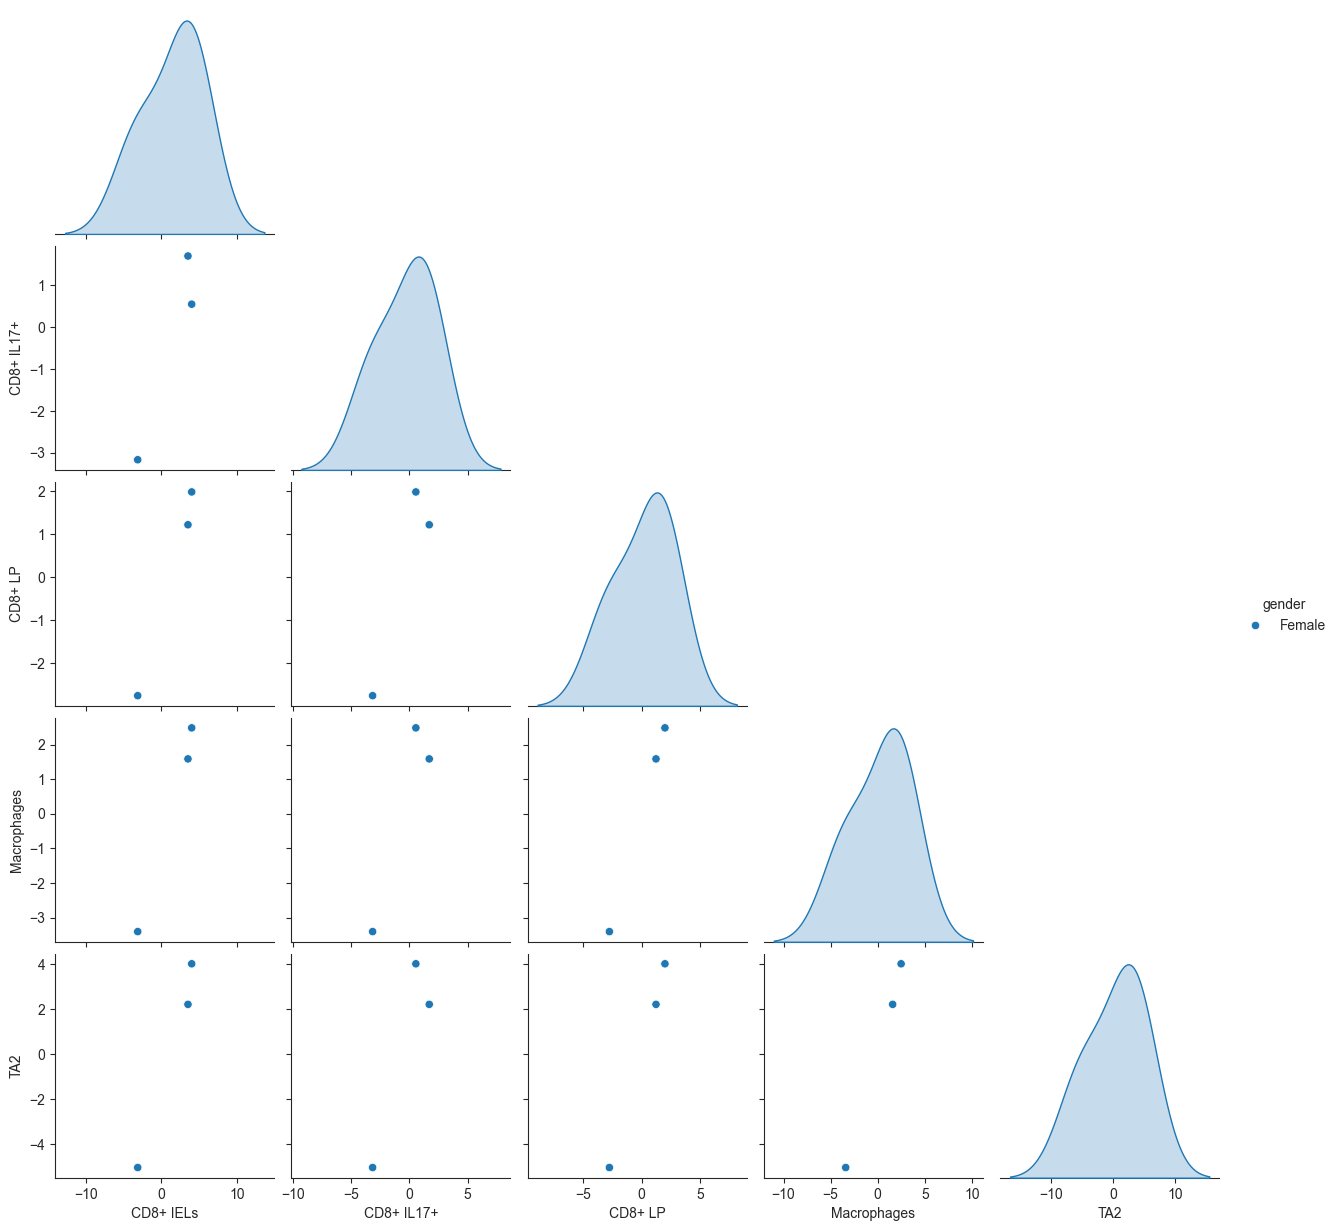
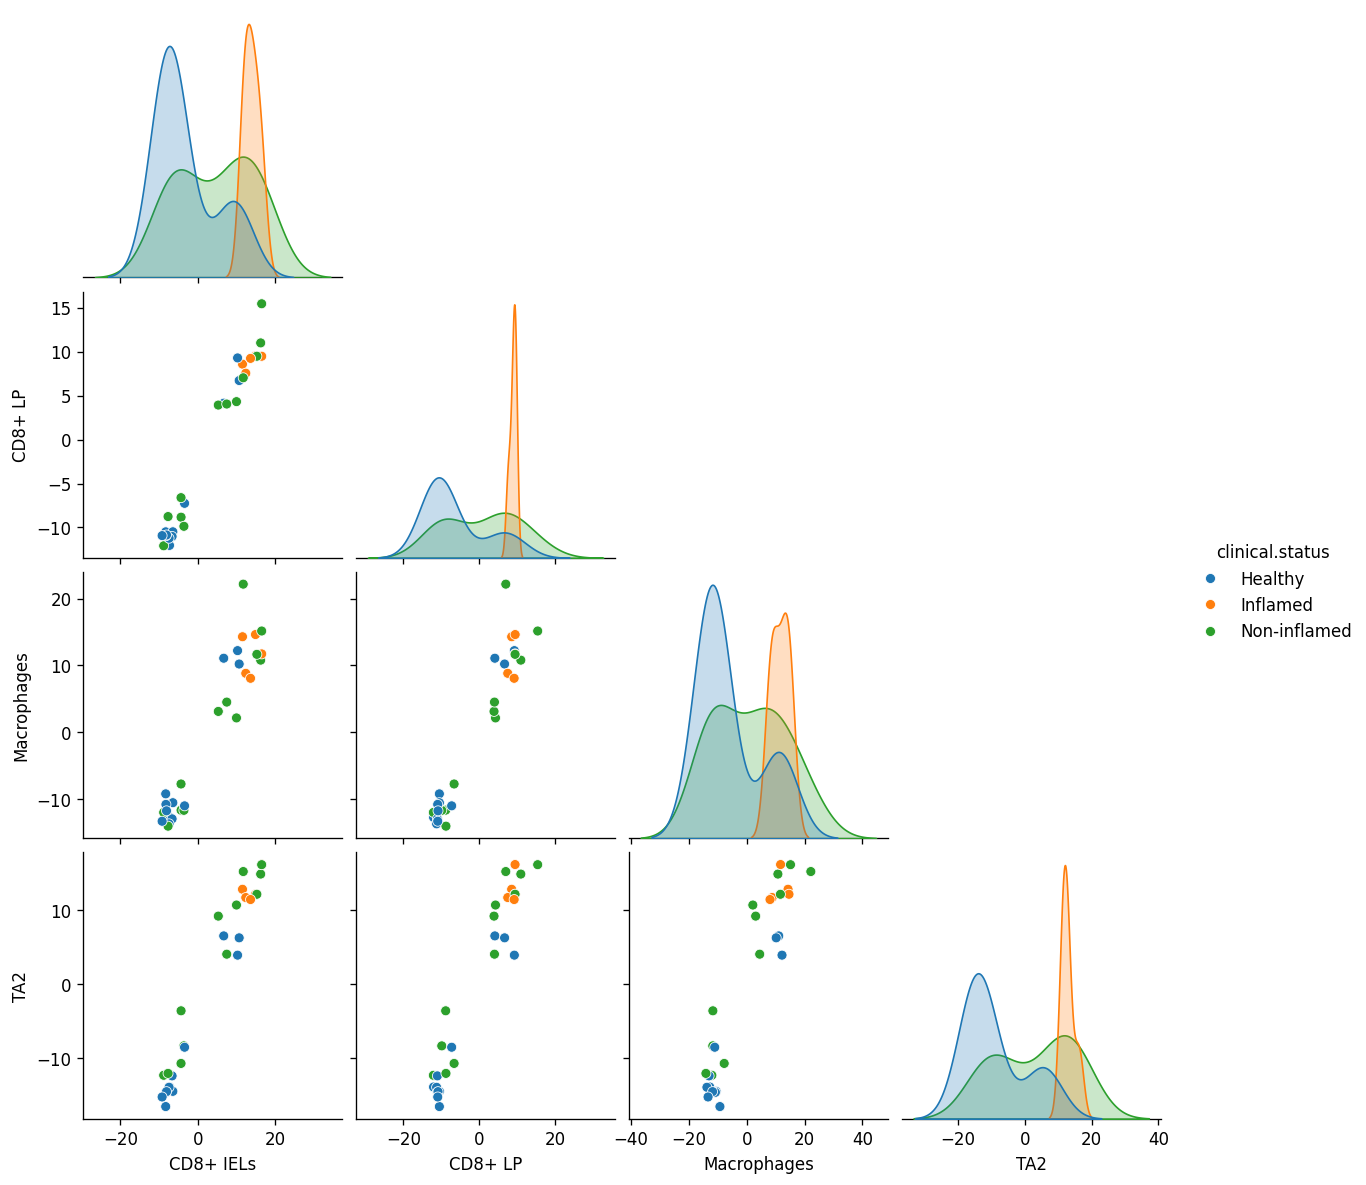
DIALOGUE: port plot_split_violins / plot_pairplot, regenerate previews
- Add `Dialogue.plot_split_violins` and `Dialogue.plot_pairplot` matching pertpy's plot-method convention (`@_doc_params(common_plot_args=...)`, `# pragma: no cover # noqa: D417`, `return_fig`, `Preview:` docstring link).
- Re-render `docs/_static/docstring_previews/dialogue_violin.png` and `dialogue_pairplot.png` from the new code path on `dialogue_example`.
- Bump the tutorial submodule to scverse/pertpy-tutorials@0e21480, which now calls the new plot methods directly instead of inlining seaborn.

diff --git a/pertpy/tools/_dialogue.py b/pertpy/tools/_dialogue.py
@@ -18,9 +18,11 @@ from dataclasses import dataclass
 from functools import singledispatch
 from typing import TYPE_CHECKING
 
+import matplotlib.pyplot as plt
 import numpy as np
 import pandas as pd
 import scanpy as sc
+import seaborn as sns
 import statsmodels.formula.api as smf
 from scipy import sparse as sp
 from scipy import stats
@@ -28,10 +30,13 @@ from scipy.optimize import nnls
 from sparsecca import multicca_permute, multicca_pmd
 from statsmodels.stats.multitest import multipletests
 
+from pertpy._doc import _doc_params, doc_common_plot_args
+
 if TYPE_CHECKING:
     from collections.abc import Sequence
 
     from anndata import AnnData
+    from matplotlib.figure import Figure
 
 _LOG2_PI = float(np.log(2.0 * np.pi))
 
@@ -1302,6 +1307,108 @@ class Dialogue:
             result = sc.get.rank_genes_groups_df(sub, group="high")
             out[ct] = result
         return out
+
+    @_doc_params(common_plot_args=doc_common_plot_args)
+    def plot_split_violins(  # pragma: no cover # noqa: D417
+        self,
+        adata: AnnData,
+        *,
+        condition_key: str,
+        program: str = "MCP1",
+        conditions: tuple[str, str] | None = None,
+        return_fig: bool = False,
+    ) -> Figure | None:
+        """Per-celltype split violin of program scores stratified by a binary phenotype.
+
+        Args:
+            adata: AnnData processed by :meth:`run` / :meth:`refine_scores`.
+            condition_key: ``adata.obs`` column with the binary phenotype to split on.
+            program: Program label (``"MCP1"``, ``"MCP2"`` ...).
+            conditions: Pick which two values of ``adata.obs[condition_key]`` to plot.
+                Required when the column has more than two levels.
+            {common_plot_args}
+
+        Returns:
+            If ``return_fig`` is ``True``, returns the figure, otherwise ``None``.
+
+        Examples:
+            >>> import pertpy as pt
+            >>> adata = pt.dt.dialogue_example()
+            >>> dl = pt.tl.Dialogue(celltype_key="cell.subtypes", sample_key="sample", n_programs=3)
+            >>> dl.run(adata)
+            >>> dl.plot_split_violins(adata, condition_key="path_str", program="MCP1")
+
+        Preview:
+            .. image:: /_static/docstring_previews/dialogue_violin.png
+        """
+        score_col = f"mcp_{int(program.replace('MCP', '')) - 1}"
+        if score_col not in adata.obs.columns:
+            raise RuntimeError(f"{score_col!r} not in adata.obs; run refine_scores(adata) first.")
+        df = adata.obs[[self.celltype_key, score_col, condition_key]].copy()
+        if conditions is not None:
+            df = df[df[condition_key].isin(conditions)]
+        else:
+            unique = pd.Series(df[condition_key]).dropna().unique()
+            if len(unique) != 2:
+                raise ValueError(f"adata.obs[{condition_key!r}] has {len(unique)} levels; pass `conditions=(a, b)`.")
+        df[condition_key] = pd.Categorical(df[condition_key]).remove_unused_categories()
+        fig, ax = plt.subplots(figsize=(8, 4))
+        sns.violinplot(data=df, x=self.celltype_key, y=score_col, hue=condition_key, split=True, ax=ax)
+        ax.set_ylabel(program)
+        ax.tick_params(axis="x", rotation=90)
+        plt.tight_layout()
+        if return_fig:
+            return fig
+        plt.show()
+        plt.close(fig)
+        return None
+
+    @_doc_params(common_plot_args=doc_common_plot_args)
+    def plot_pairplot(  # pragma: no cover # noqa: D417
+        self,
+        adata: AnnData,
+        *,
+        color: str,
+        program: str = "MCP1",
+        return_fig: bool = False,
+    ) -> Figure | None:
+        """Cross-celltype pairplot of sample-level program scores, colored by a phenotype.
+
+        Aggregates each (sample, cell type) to the mean program score, pivots into a sample × cell-type matrix, and runs :func:`seaborn.pairplot` with the sample-level ``color`` annotation as the hue.
+
+        Args:
+            adata: AnnData processed by :meth:`run` / :meth:`refine_scores`.
+            color: ``adata.obs`` column for the per-sample annotation used as the pairplot hue.
+            program: Program label.
+            {common_plot_args}
+
+        Returns:
+            If ``return_fig`` is ``True``, returns the figure, otherwise ``None``.
+
+        Examples:
+            >>> import pertpy as pt
+            >>> adata = pt.dt.dialogue_example()
+            >>> dl = pt.tl.Dialogue(celltype_key="cell.subtypes", sample_key="sample", n_programs=3)
+            >>> dl.run(adata)
+            >>> dl.plot_pairplot(adata, color="clinical.status", program="MCP1")
+
+        Preview:
+            .. image:: /_static/docstring_previews/dialogue_pairplot.png
+        """
+        score_col = f"mcp_{int(program.replace('MCP', '')) - 1}"
+        if score_col not in adata.obs.columns:
+            raise RuntimeError(f"{score_col!r} not in adata.obs; run refine_scores(adata) first.")
+        sample_means = (
+            adata.obs.groupby([self.sample_key, self.celltype_key], observed=True)[score_col].mean().unstack()
+        )
+        sample_color = adata.obs.groupby(self.sample_key, observed=True)[color].first()
+        df = sample_means.copy()
+        df[color] = sample_color
+        grid = sns.pairplot(df, hue=color, corner=True)
+        if return_fig:
+            return grid.fig
+        plt.show()
+        return None
 
     def _param_dict(self) -> dict[str, object]:
         return {